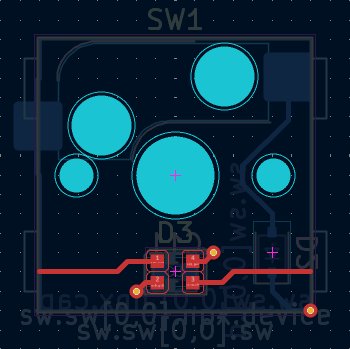
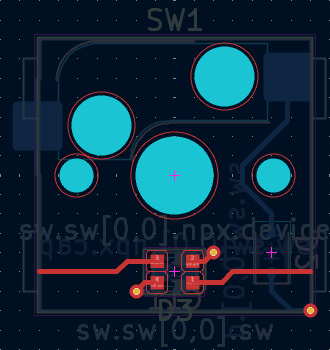
wip

Changed region(s): [[0.0606, 0.086, 1.0, 1.0], [0.4242, 0.0, 0.6061, 0.086], [0.4848, 0.4871, 0.5455, 0.5158]]

diff --git a/getting_started_hierarchy_layout.md b/getting_started_hierarchy_layout.md
@@ -2,6 +2,9 @@
 
 Hierarchical layout tips and tricks, using the macropad circuit from the [introductory tutorial](getting-started.md) as an example.
 
+This assumes familiarity with KiCad PCB layout.
+If you're new to KiCad, there are plenty of excellent tutorials online, go through one of those, then come back.
+
 
 ## Requirements
 
@@ -9,15 +12,18 @@ The example uses the Keyswitch Kicad Library, available on the KiCad Plugin and 
 
 ![Keyswitch](docs/kicad/pcm_keyswitch_library.png)
 
-For hierarchical loading and replication, you have two options:
+For hierarchical loading and replication, you have a few options:
 
-- Use KiCad 10+ and the native design blocks feature.
-  - This tutorial covers hierarchical replication, but hierarchical loading is not covered.
-  - The design blocks flow is heavyweight (requires local library creation) and (at least for netlist driven flows, like this one) requires you to group footprints within a block manually.
 - Use the Sublayout plugin (KiCad 8+), also available on the KiCad Plugin and Content Manager.
   ![Sublayout](docs/kicad/pcm_sublayout.png)
   - This was designed to work with netlist-based flows and automatically detects grouping based on hierarchy data in the netlist.  
   - This works with KiCad 10+, but zone replication is broken.
+- Use KiCad's native design blocks feature (KiCad 10+).
+  - This tutorial covers hierarchical replication, but hierarchical loading is not covered.
+  - The design blocks flow is heavyweight (requires local library creation) and (at least for netlist driven flows, like this one) requires you to group footprints within a block manually.
+- Use KiCad's Multi-Channel and Placement Rule Area feature.
+  - This tutorial does not cover this.
+  - This seems brittle to other traces overlapping the placement rule area and does not seem grouping-aware. 
 
 > Replicate Layout, Save/Restore Layout, and HierarchicalPCB will **NOT work**. 
 > These require and validate against schematic files, which are not generated in this HDL flow.
@@ -46,20 +52,65 @@ For hierarchical loading and replication, you have two options:
    - This may give you error(s) about missing pins, which you can ignore.
 
 
-## Replicating the Switch Cells
+## Switch Matrix Placement and Replication
 
 The switch, diode, LED, and LED capacitor are all part of a SwitchCell hierarchical sheet in the netlist, which allows the layout to be replicated for each switch.
 
-Start by laying out a single switch cell.
+Start by arranging all the switch footprints in a grid.
+
+This can be done by selecting all the switch footprints, then right-clicking and selecting Create From Selection > Create Array...
+Set the grid array size (here, 3x2 as consistent with the HDL parameters) and spacing (19.05mm typical for mechanical keyboard switch spacing).
+Set Item Source to Arrange selection (move the footprints, instead of creating new ones), and the Grid Position to Source items remain in place.
+
+![kicad_array.png](docs/kicad/kicad_array.png)
+
+![pcb_switcharray.png](docs/kicad/pcb_switcharray.png)
+
+You may need to swap components to get the right ordering.
+
+![pcb_switcharray_ordered.png](docs/kicad/pcb_switcharray_ordered.png)
+
+Then, lay out a single switch cell, including the switch, diode, LED, LED capacitor, and traces.
 Here is an example layout:
 
 ![pcb_switchcell.png](docs/kicad/pcb_switchcell.png)
 
+In this layout, I've allocated the top layer to run horizontal traces (rows and LEDs) and the bottom layer to run vertical traces (columns).
+
 > Tip: use the footprint pathname on the F.Fab layer to find the footprints that are part of the same block.
 > For example, find all the footprints starting with `sw.sw[0,0]`.
 
-> Right-click > Select > Items in Same Hierarchical Sheet only selects items strictly in the same sheet, not recursively.
+> Right-click > Select > Items in Same Hierarchical Sheet only selects items _strictly_ in the same sheet, not recursively.
 > For example, selecting the hierarchical sheet for the switch includes the diode, but not the LED or LED capacitor, which are in a sub-sheet.
+
+Group the switch cell footprints: select them, right click, Grouping > Group Items.
+
+![pcb_switchcell.png](docs/kicad/pcb_switchcell_group.png)
+
+### Option 1: Sublayout Plugin
+
+1. Enter into the switch cell footprint group you just created and select the switch.
+   ![pcb_switchcell_anchor.png](docs/kicad/pcb_switchcell_anchor.png)
+   The group defines the objects to replicate, while the selected footprint defines the _anchor footprint_, the matching component in the other sheets that other footprints are placed around.
+
+2. Run the Sublayout plugin and select all the instances (bottom list box).
+   ![sublayout_selected.png](docs/kicad/sublayout_selected.png)
+3. Press Replicate, and the plugin will replicate the layout, including footprint positions, traces, and groupings.
+   ![pcb_switchmatrix_replicated.png](docs/kicad/pcb_switchmatrix_replicated.png)
+
+
+### Option 2: KiCad Design Blocks
+
+_KiCad 10+ required._
+
+1. Open the Design Blocks panel: main menu > View > Panels > Design Blocks.
+   ![kicad_designblocks_empty.png](docs/kicad/kicad_designblocks_empty.png)
+
+### Snaking
+
+The LEDs are connected in a snaking pattern, which means every other row reverses the LED connection order.
+You may want to have a different switch cell for the odd rows, which flips the LED rotation.
+
 
 ## Loading a Microcontroller Layout
 